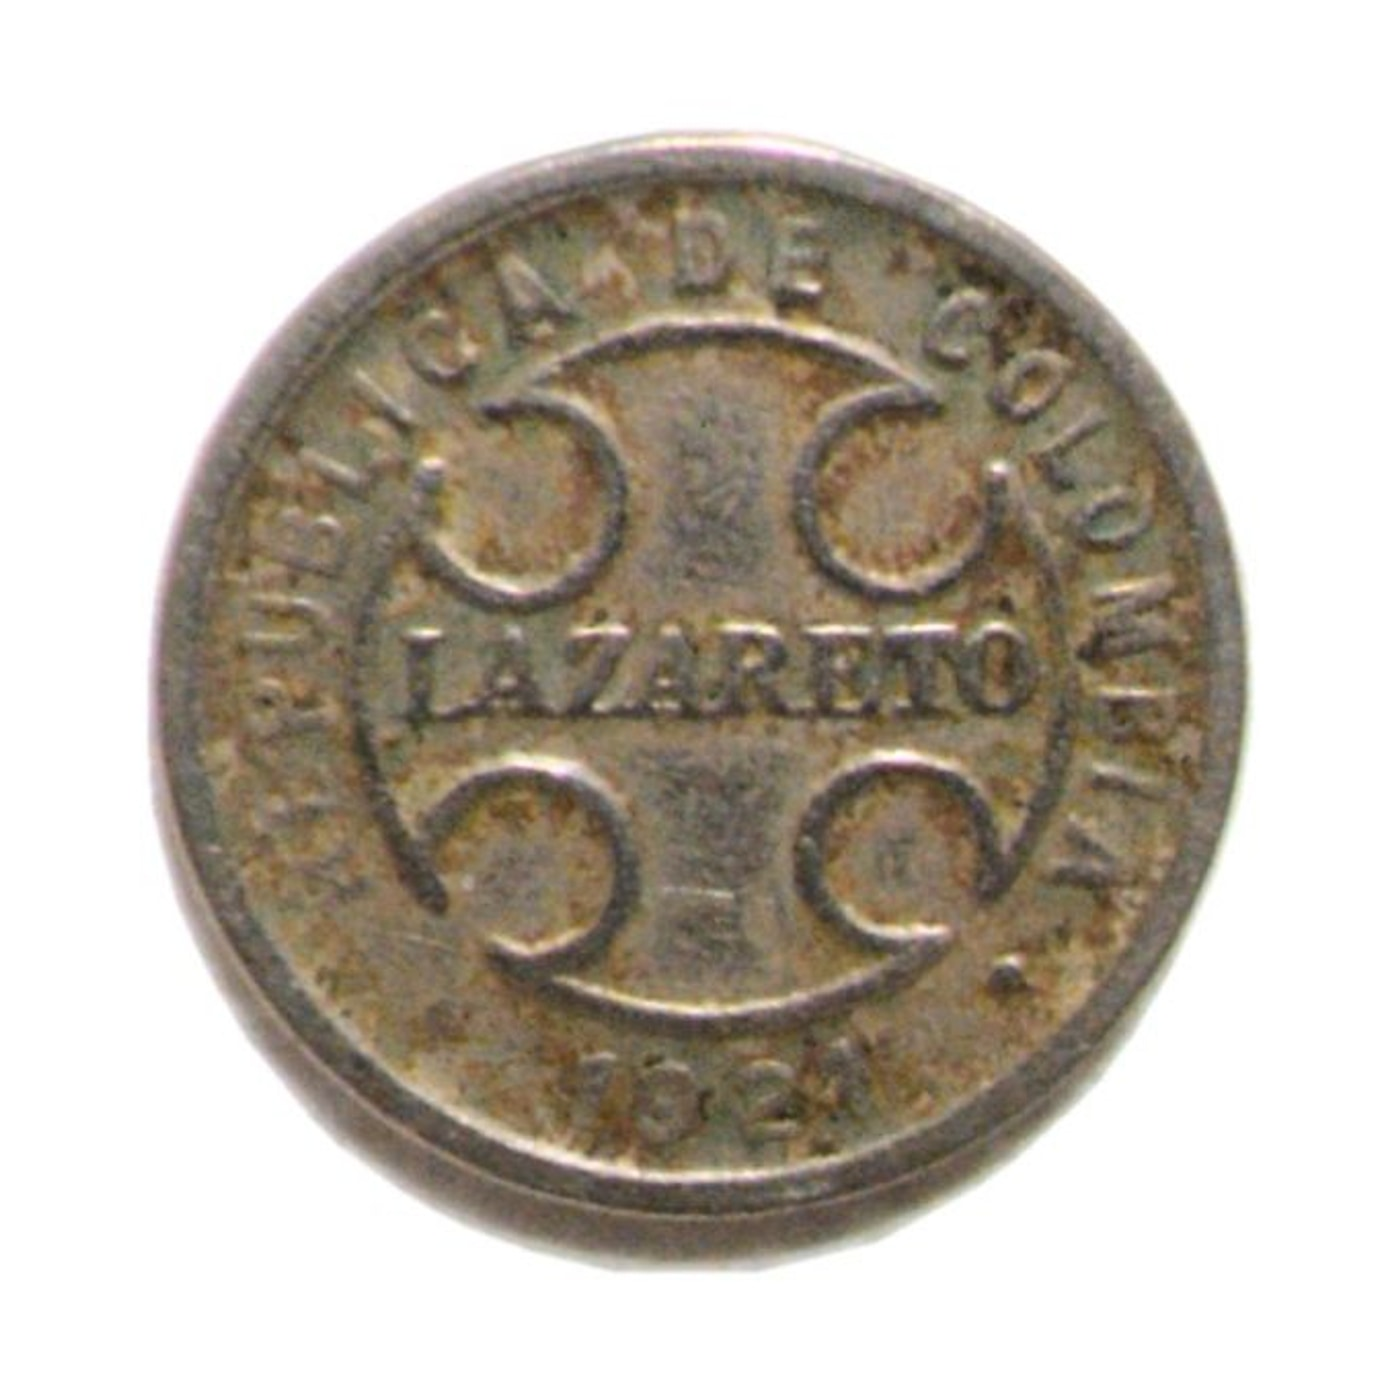
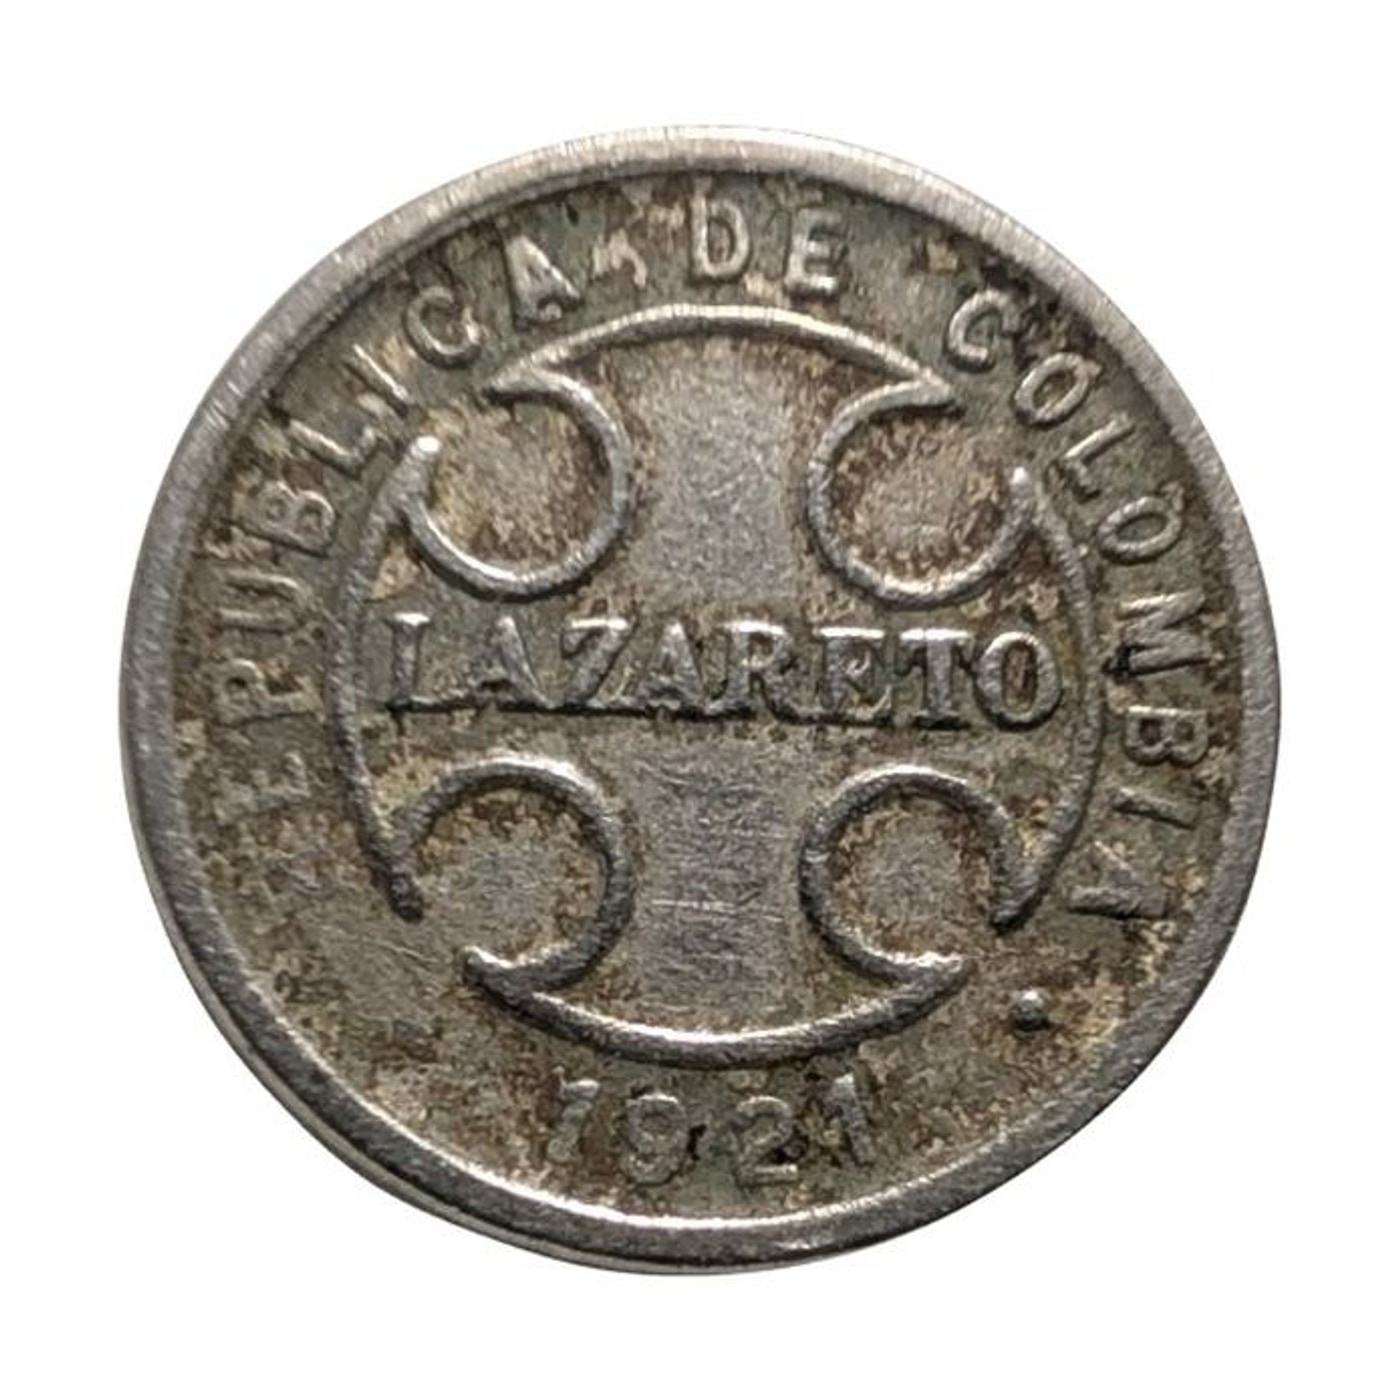
Replace the 1921 lazareto 2 centavos photos with a sharper pair.
The initials under the bow stay unread because the coin is worn there.

diff --git a/src/data/colombia-coinage-pieces.ts b/src/data/colombia-coinage-pieces.ts
@@ -305,8 +305,8 @@ export const colombiaCoinagePieces: ColombiaCoinagePiece[] = [
       en: 'A 1921 cupronickel 2 centavos, struck at Bogotá for the lazaretto cordon. The obverse shows the cross with LAZARETO and the date; the reverse, the value inside a wreath.',
     },
     description: {
-      es: 'En 1921 la Casa de Bogotá labró cuproníquel cuyo curso estaba limitado al cordón de los lazaretos: Agua de Dios, Contratación y Caño del Oro. Este disco muestra en el anverso la cruz con LAZARETO, la leyenda REPUBLICA DE COLOMBIA —sin tilde, como está grabada— y la fecha 1921; en el reverso, un 2 ornamental sobre CENTAVOS, dentro de una corona vegetal atada con lazo. Es el tipo KM# L10, Restrepo 355.1 y Hernández Cód. 313 (8.ª ed. 2023). Hernández agrupa en ese año, también en cuproníquel y con la misma leyenda, el 1, el 5, el 10 y el 50 centavos. Las iniciales RH del grabador Roberto Hinestrosa son rasgo del tipo, bajo el lazo del reverso; en esta fotografía esa zona queda blanda y las letras no se leen. No marcan una variedad. El peso de 3 g, el diámetro de 18,89 mm, el canto liso y la alineación moneda son cifras de catálogo: este ejemplar no se pesó ni se midió. El diseño no nombra un lazareto. El apodo coscoja nació con los pesos P/M de níquel de 1907; esta pieza no es aquel módulo, ni el bronce de 50 centavos de 1928, ni el latón de Palonegro de 1902. Sin encapsular; las fotografías no autentican el metal.',
-      en: 'In 1921 the Bogotá mint struck cupronickel whose circulation was limited to the lazaretto cordon: Agua de Dios, Contratación, and Caño del Oro. This disc shows, on the obverse, the cross with LAZARETO, the legend REPUBLICA DE COLOMBIA — without an accent, as engraved — and the date 1921; on the reverse, an ornamental 2 above CENTAVOS, inside a leafy wreath tied with a bow. It is type KM# L10, Restrepo 355.1, and Hernández Cód. 313 (8th ed. 2023). Hernández groups with that year, also in cupronickel and with the same legend, the 1, 5, 10, and 50 centavos. The initials RH of engraver Roberto Hinestrosa belong to the type, under the reverse bow; on this photograph that area is soft and the letters cannot be read. They do not mark a variety. A weight of 3 g, a diameter of 18.89 mm, a plain edge, and coin alignment are catalogue figures: this specimen was not weighed or measured. The design names no single lazaretto. The nickname coscoja began with the 1907 nickel paper-money pesos; this piece is not that module, nor the 1928 bronze 50 centavos, nor the 1902 Palonegro brass. Unslabbed; the photographs do not authenticate the metal.',
+      es: 'En 1921 la Casa de Bogotá labró cuproníquel cuyo curso estaba limitado al cordón de los lazaretos: Agua de Dios, Contratación y Caño del Oro. Este disco muestra en el anverso la cruz con LAZARETO, la leyenda REPUBLICA DE COLOMBIA —sin tilde, como está grabada— y la fecha 1921; en el reverso, un 2 ornamental sobre CENTAVOS, dentro de una corona vegetal atada con lazo. Es el tipo KM# L10, Restrepo 355.1 y Hernández Cód. 313 (8.ª ed. 2023). Hernández agrupa en ese año, también en cuproníquel y con la misma leyenda, el 1, el 5, el 10 y el 50 centavos. Las iniciales RH del grabador Roberto Hinestrosa son rasgo del tipo, bajo el lazo del reverso; ahí queda una marca gastada y las letras no se leen con seguridad. No marcan una variedad. El peso de 3 g, el diámetro de 18,89 mm, el canto liso y la alineación moneda son cifras de catálogo: este ejemplar no se pesó ni se midió. El diseño no nombra un lazareto. El apodo coscoja nació con los pesos P/M de níquel de 1907; esta pieza no es aquel módulo, ni el bronce de 50 centavos de 1928, ni el latón de Palonegro de 1902. Sin encapsular; las fotografías no autentican el metal.',
+      en: 'In 1921 the Bogotá mint struck cupronickel whose circulation was limited to the lazaretto cordon: Agua de Dios, Contratación, and Caño del Oro. This disc shows, on the obverse, the cross with LAZARETO, the legend REPUBLICA DE COLOMBIA — without an accent, as engraved — and the date 1921; on the reverse, an ornamental 2 above CENTAVOS, inside a leafy wreath tied with a bow. It is type KM# L10, Restrepo 355.1, and Hernández Cód. 313 (8th ed. 2023). Hernández groups with that year, also in cupronickel and with the same legend, the 1, 5, 10, and 50 centavos. The initials RH of engraver Roberto Hinestrosa belong to the type, under the reverse bow; a worn mark remains there and the letters cannot be read with certainty. They do not mark a variety. A weight of 3 g, a diameter of 18.89 mm, a plain edge, and coin alignment are catalogue figures: this specimen was not weighed or measured. The design names no single lazaretto. The nickname coscoja began with the 1907 nickel paper-money pesos; this piece is not that module, nor the 1928 bronze 50 centavos, nor the 1902 Palonegro brass. Unslabbed; the photographs do not authenticate the metal.',
     },
     frontCaption: {
       es: 'Anverso: cruz con LAZARETO, leyenda REPUBLICA DE COLOMBIA y fecha 1921.',
@@ -321,8 +321,8 @@ export const colombiaCoinagePieces: ColombiaCoinagePiece[] = [
       en: 'Numista publishes 300,000 pieces for the 1921 RH issue (N#6830). CoinVarieties, for KM# L10 and Restrepo 355.1, publishes 350,000. Those are disagreeing catalogue totals, not a production range and not a Banco de la República figure: BanRep’s coin tables begin in 1987. The type turns up in circulated condition. This record publishes neither prices nor a slab census.',
     },
     grade: {
-      es: 'Circulada, sin encapsular. Fecha 1921 y valor 2 legibles; el lazo del reverso no resuelve las iniciales RH. Las fotografías no autentican el metal (colección privada)',
-      en: 'Circulated, unslabbed. The date 1921 and the value 2 are readable; the reverse bow does not resolve the initials RH. Photographs do not authenticate the metal (private collection)',
+      es: 'Circulada, sin encapsular. Fecha 1921, leyenda y valor 2 legibles; bajo el lazo hay una marca gastada y las iniciales RH no se leen con seguridad. Las fotografías no autentican el metal (colección privada)',
+      en: 'Circulated, unslabbed. The date 1921, the legend, and the value 2 are readable; a worn mark sits under the bow and the initials RH cannot be read with certainty. Photographs do not authenticate the metal (private collection)',
     },
     images: {
       composite: '/images/catalog/numismatica/2-centavos-lazareto-1921-composite.jpg',
